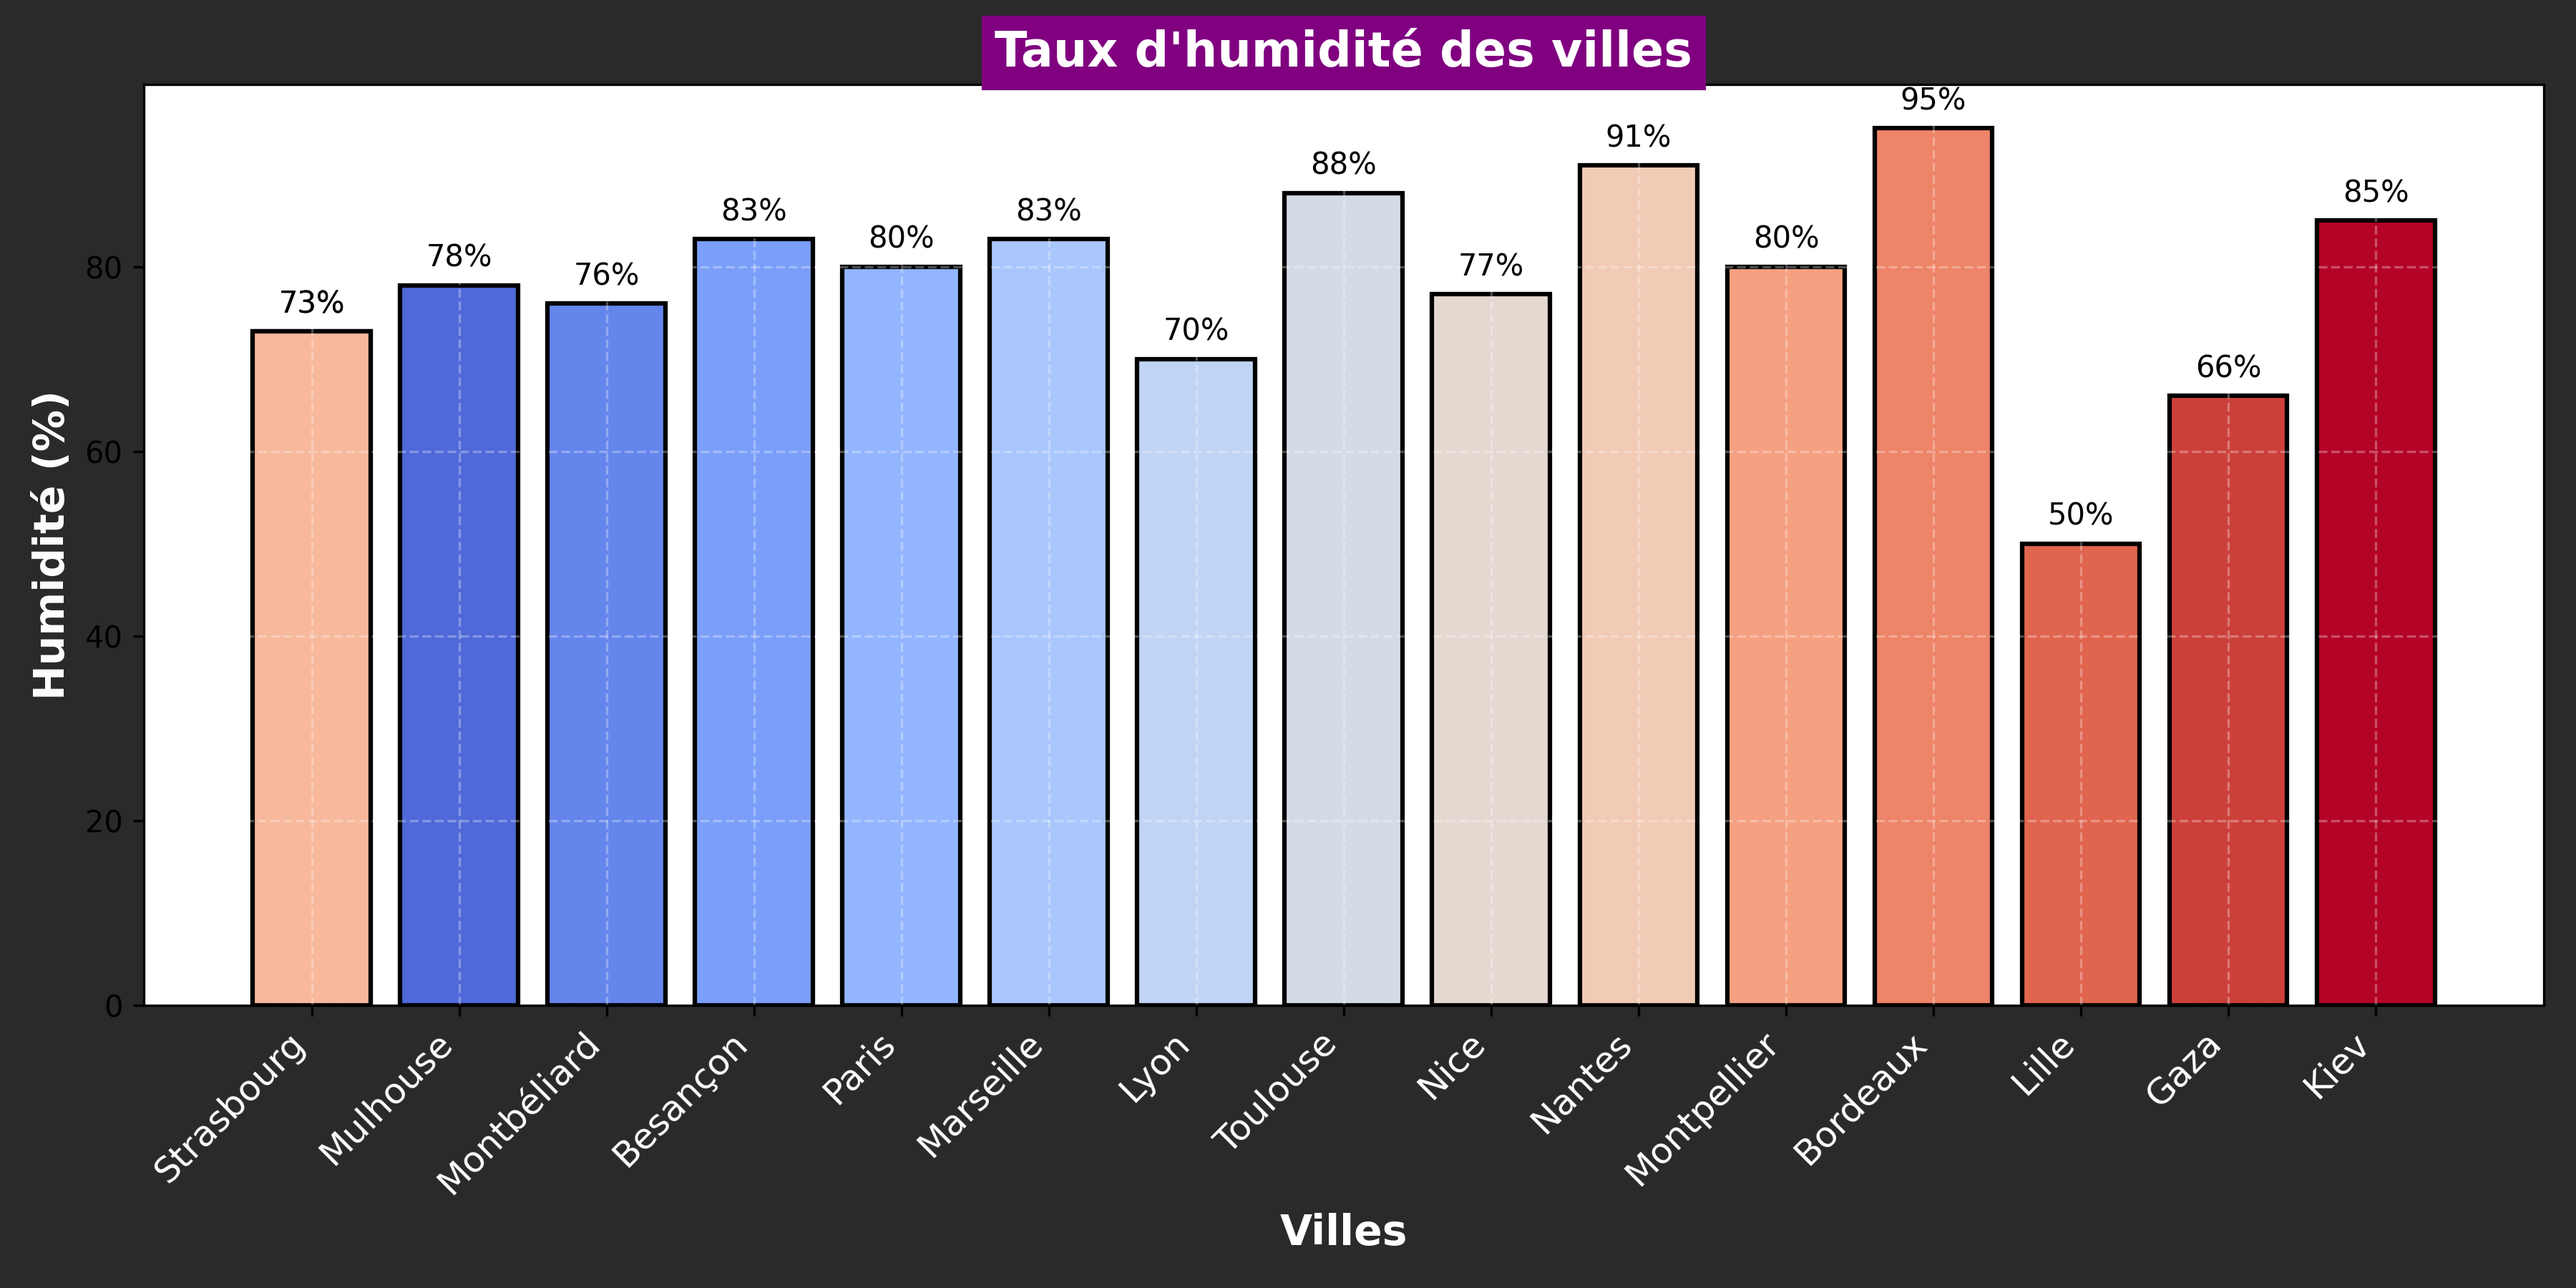
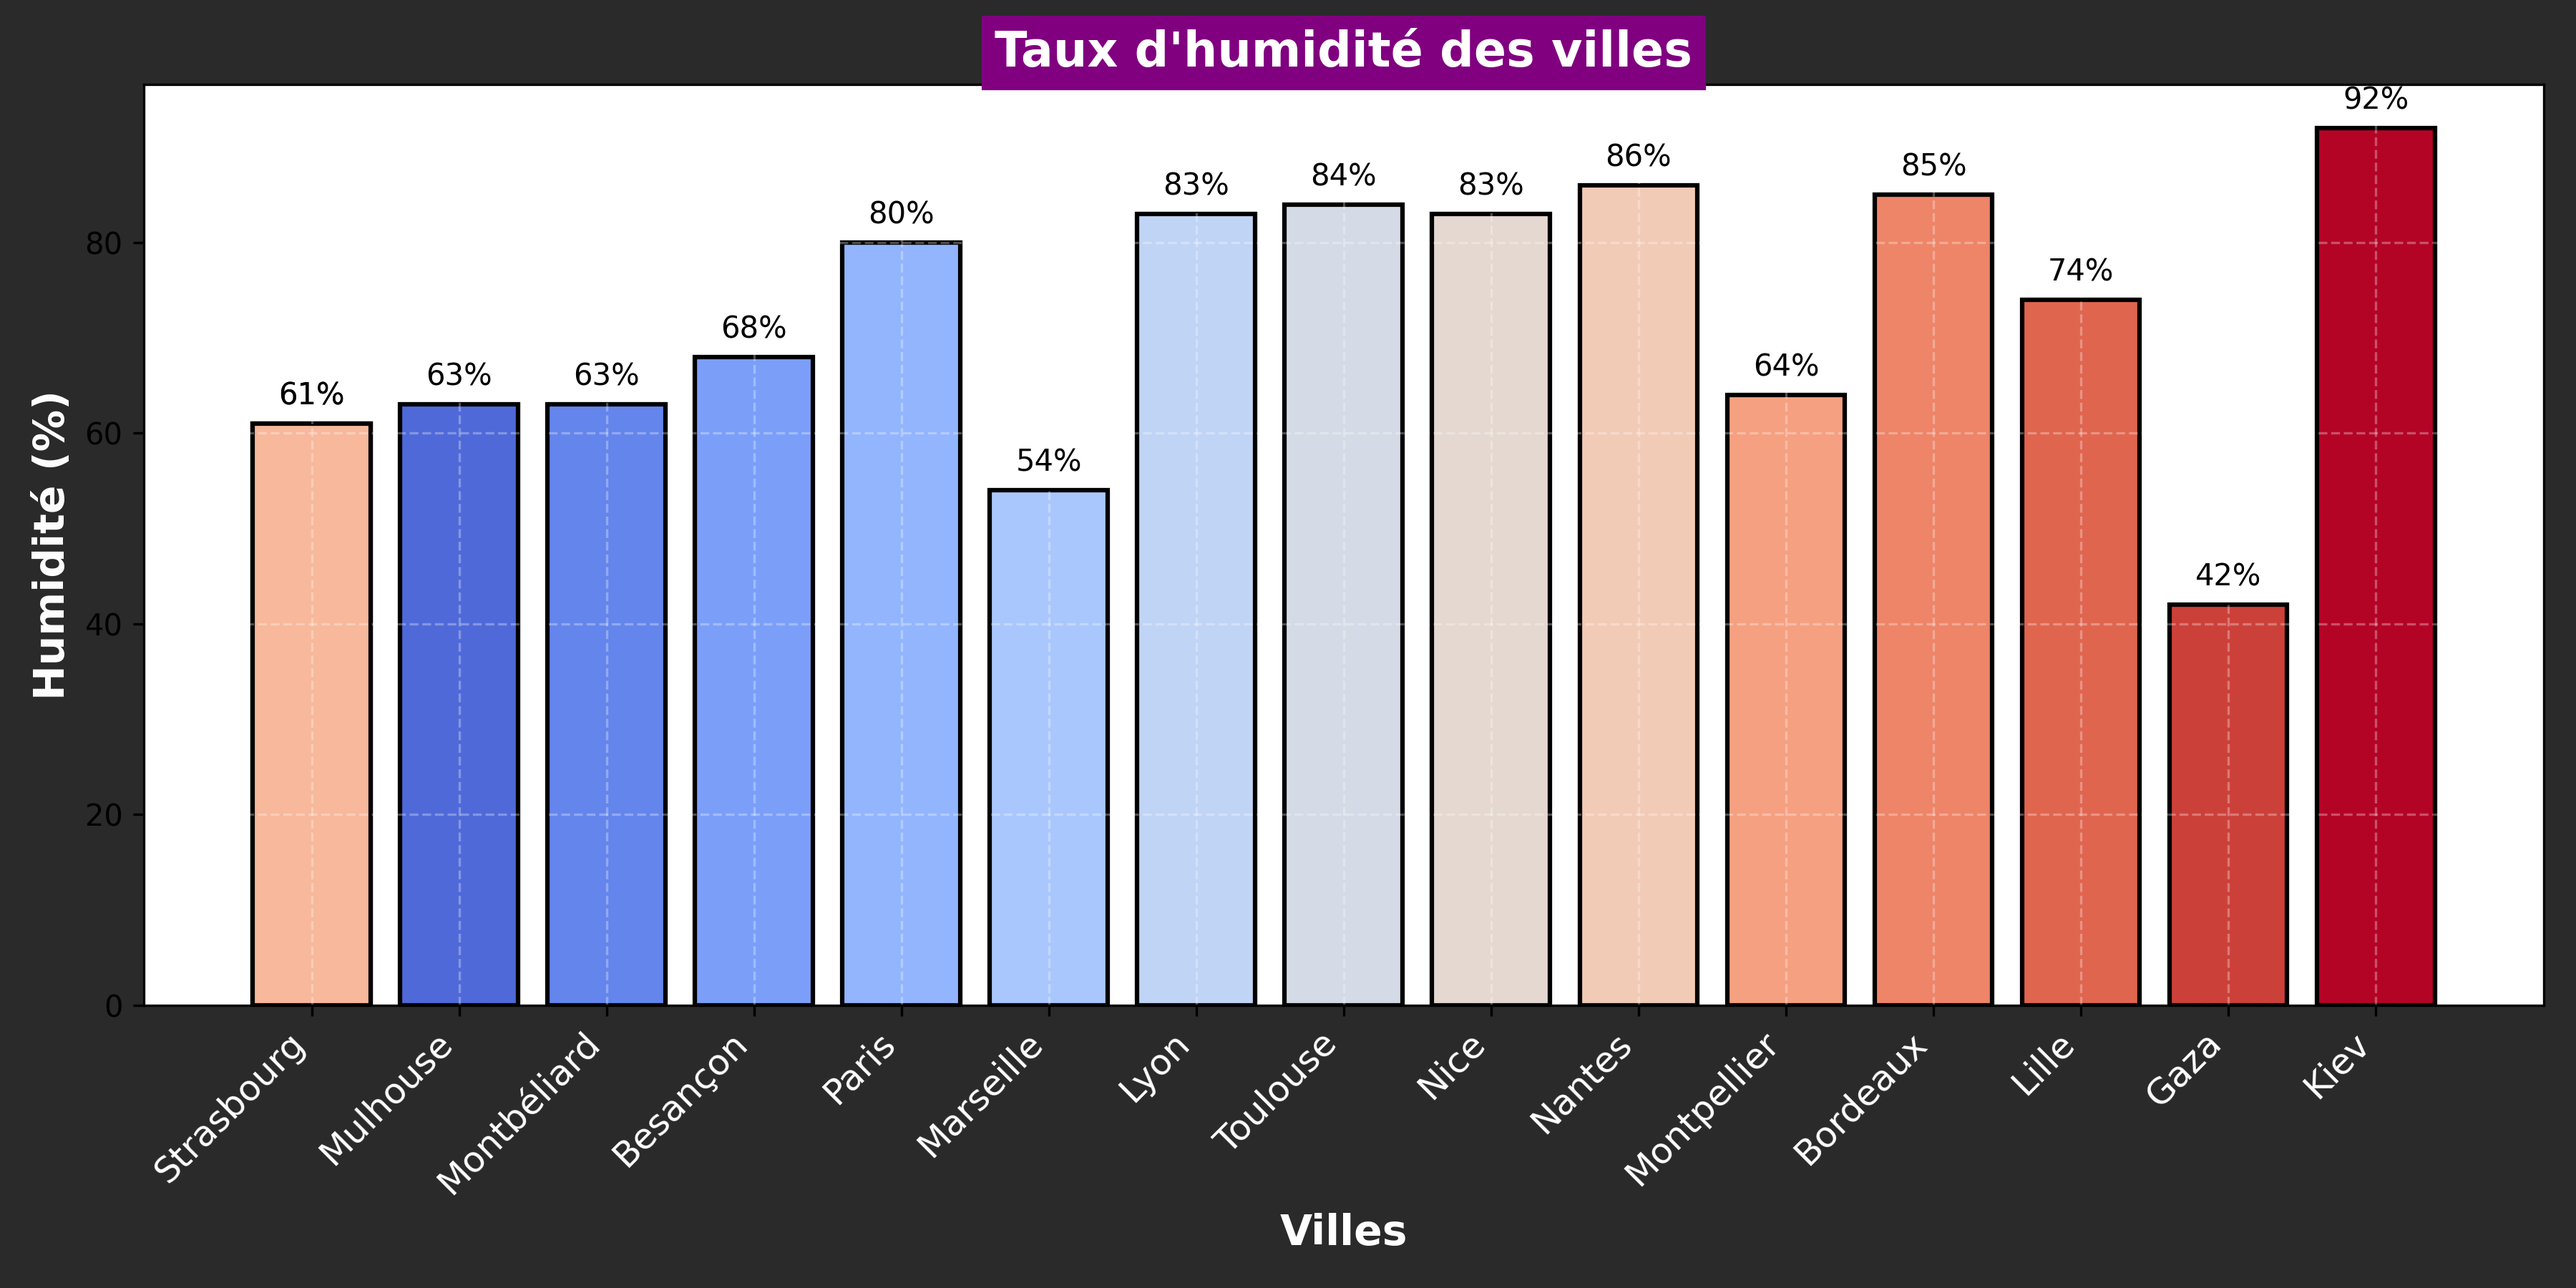
Mise à jour de la météo et ajout du graphique d'humidité

diff --git a/README.md b/README.md
@@ -24,102 +24,102 @@ Ce repo contient plusieurs workflows GitHub Actions :
 ## Météo actuelle :
 ## Météo des grandes villes + Gaza et Kiev 🌍
 
-🕒 Mise à jour : 15/05/2025 08:18:17
+🕒 Mise à jour : 16/05/2025 08:18:00
 
-### 🌍 Strasbourg 🌥
-**Conditions :** nuageux
-**Température :** 13.56°C
-**Humidité :** 73%
-**Vent :** 3.62 m/s
+### 🌍 Strasbourg ☀
+**Conditions :** ciel dégagé
+**Température :** 9.82°C
+**Humidité :** 61%
+**Vent :** 2.5 m/s
 
-### 🌍 Mulhouse 🌥
-**Conditions :** peu nuageux
-**Température :** 11.67°C
-**Humidité :** 78%
+### 🌍 Mulhouse ☀
+**Conditions :** ciel dégagé
+**Température :** 9.67°C
+**Humidité :** 63%
 **Vent :** 0.89 m/s
 
 ### 🌍 Montbéliard ☀
 **Conditions :** ciel dégagé
-**Température :** 13.88°C
-**Humidité :** 76%
-**Vent :** 0.71 m/s
+**Température :** 10.54°C
+**Humidité :** 63%
+**Vent :** 4.24 m/s
 
 ### 🌍 Besançon ☀
 **Conditions :** ciel dégagé
-**Température :** 13.27°C
-**Humidité :** 83%
-**Vent :** 0.07 m/s
+**Température :** 10.22°C
+**Humidité :** 68%
+**Vent :** 3.94 m/s
 
 ### 🌍 Paris ☀
 **Conditions :** ciel dégagé
-**Température :** 10.4°C
+**Température :** 10.31°C
 **Humidité :** 80%
-**Vent :** 2.24 m/s
+**Vent :** 1.34 m/s
 
-### 🌍 Marseille 🌥
-**Conditions :** peu nuageux
-**Température :** 14.18°C
-**Humidité :** 83%
-**Vent :** 1.56 m/s
-
-### 🌍 Lyon ☀
+### 🌍 Marseille ☀
 **Conditions :** ciel dégagé
-**Température :** 12.3°C
-**Humidité :** 70%
-**Vent :** 1.2 m/s
+**Température :** 15.84°C
+**Humidité :** 54%
+**Vent :** 1.85 m/s
+
+### 🌍 Lyon 🌥
+**Conditions :** partiellement nuageux
+**Température :** 9.16°C
+**Humidité :** 83%
+**Vent :** 1.88 m/s
 
 ### 🌍 Toulouse 🌥
 **Conditions :** nuageux
-**Température :** 13.24°C
-**Humidité :** 88%
-**Vent :** 2.69 m/s
+**Température :** 14.1°C
+**Humidité :** 84%
+**Vent :** 5.4 m/s
 
 ### 🌍 Nice 🌥
-**Conditions :** partiellement nuageux
-**Température :** 11.39°C
-**Humidité :** 77%
-**Vent :** 0.44 m/s
-
-### 🌍 Nantes 🌥
-**Conditions :** peu nuageux
-**Température :** 13.33°C
-**Humidité :** 91%
-**Vent :** 4.48 m/s
-
-### 🌍 Strasbourg 🌥
-**Conditions :** nuageux
-**Température :** 13.56°C
-**Humidité :** 73%
-**Vent :** 3.62 m/s
-
-### 🌍 Montpellier 🌥
-**Conditions :** peu nuageux
-**Température :** 13.75°C
-**Humidité :** 80%
-**Vent :** 1.1 m/s
-
-### 🌍 Bordeaux 🌥
-**Conditions :** nuageux
-**Température :** 16.27°C
-**Humidité :** 95%
-**Vent :** 1.47 m/s
-
-### 🌍 Lille 🌥
 **Conditions :** couvert
-**Température :** 11.8°C
-**Humidité :** 50%
-**Vent :** 5.04 m/s
+**Température :** 9.72°C
+**Humidité :** 83%
+**Vent :** 2.53 m/s
+
+### 🌍 Nantes ☀
+**Conditions :** ciel dégagé
+**Température :** 10.56°C
+**Humidité :** 86%
+**Vent :** 3.08 m/s
+
+### 🌍 Strasbourg ☀
+**Conditions :** ciel dégagé
+**Température :** 9.82°C
+**Humidité :** 61%
+**Vent :** 2.5 m/s
+
+### 🌍 Montpellier ☀
+**Conditions :** ciel dégagé
+**Température :** 15.02°C
+**Humidité :** 64%
+**Vent :** 3.99 m/s
+
+### 🌍 Bordeaux ☀
+**Conditions :** ciel dégagé
+**Température :** 12.94°C
+**Humidité :** 85%
+**Vent :** 2.81 m/s
+
+### 🌍 Lille ☀
+**Conditions :** ciel dégagé
+**Température :** 8.96°C
+**Humidité :** 74%
+**Vent :** 3.46 m/s
 
 ### 🌍 Gaza 🌥
-**Conditions :** peu nuageux
-**Température :** 21.95°C
-**Humidité :** 66%
-**Vent :** 2.56 m/s
+**Conditions :** partiellement nuageux
+**Température :** 24.47°C
+**Humidité :** 42%
+**Vent :** 2.65 m/s
 
 ### 🌍 Kiev 🌥
 **Conditions :** couvert
-**Température :** 12.62°C
-**Humidité :** 85%
+**Température :** 7.07°C
+**Humidité :** 92%
 **Vent :** 0.45 m/s
 
 <p align='center'><img src='https://raw.githubusercontent.com/khoa083/khoa/main/Khoa_ne/img/Rainbow.gif' width='100%' style='border-radius: 5px; border: 3px solid #39FF14; box-shadow: 0 0 10px #39FF14, 0 0 20px #39FF14;' /></p>
